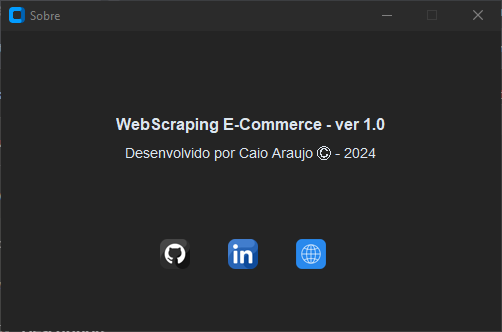
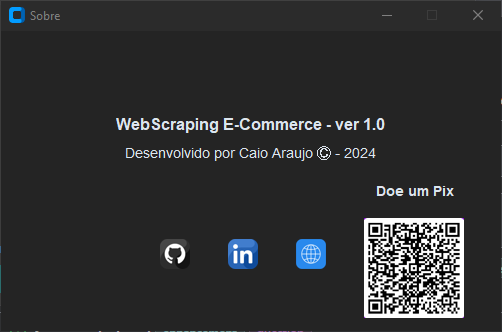
Criação do qrCode pix para doação

diff --git a/app.py b/app.py
@@ -169,6 +169,20 @@ class janelas:
             self.botaoPortfolio = customtkinter.CTkButton(self.janhelaHelp, image=self.imagemPortfolioPronta, command=self.acessePortfolio,
                                               corner_radius=32, fg_color='transparent', hover_color='#008485', text=None, height=0, width=0)
             self.botaoPortfolio.pack(padx=(30, 0), side='left')
+            
+            #Label para doacao
+            self.labelDoacaoPix = customtkinter.CTkLabel(self.janhelaHelp, text="Doe um Pix", font=('Arial', 14, 'bold'))
+            self.labelDoacaoPix.pack(pady=(0, 0))
+            
+            # Icone do Pix 
+            imagemPix = Image.open('assets/qrCodePix.png')
+            imagemPix = imagemPix.resize((100, 100))
+            self.imagemPix = ImageTk.PhotoImage(imagemPix)
+
+            # Botao para acessar o Pix
+            self.botaoPortfolio = customtkinter.CTkButton(self.janhelaHelp, image=self.imagemPix, command=self.doacaoPix,
+                                              corner_radius=32, fg_color='transparent', hover_color='#008485', text=None, height=0, width=0)
+            self.botaoPortfolio.pack(padx=(30, 0), side='left')
 
             warnings.filterwarnings("default", category=UserWarning)
 
@@ -187,6 +201,9 @@ class janelas:
         
     def acessePortfolio(self):
         webbrowser.open('https://caiogunz.github.io/portfolio-curriculo/')
+    
+    def doacaoPix(self):
+        webbrowser.open('https://nubank.com.br/cobrar/enynq/661554fa-a284-4ee1-b85c-99e97e21bdc5')
     
     def confirmarSaida(self):
     # Pergunta ao usuário se deseja realmente sair

diff --git a/README.md b/README.md
@@ -45,4 +45,9 @@ Para usar o aplicativo você deve escolher primeiramente qual pesquisa de ecomme
 
     ![Botão Pesquisa Anuncios](/assets/botaoPesquisaAnunciosMercadoLivre.png)
 
+Com isso ira iniciar a pesquisa e quando terminar vai gerar um **CVS** com o nome de **pesquisaAnunciosMercadoLivre.csv** com os anuncios coletados e a categoria no formato: **link;categoria**
+
+### Pesquisa Anunciante
+
+
 
